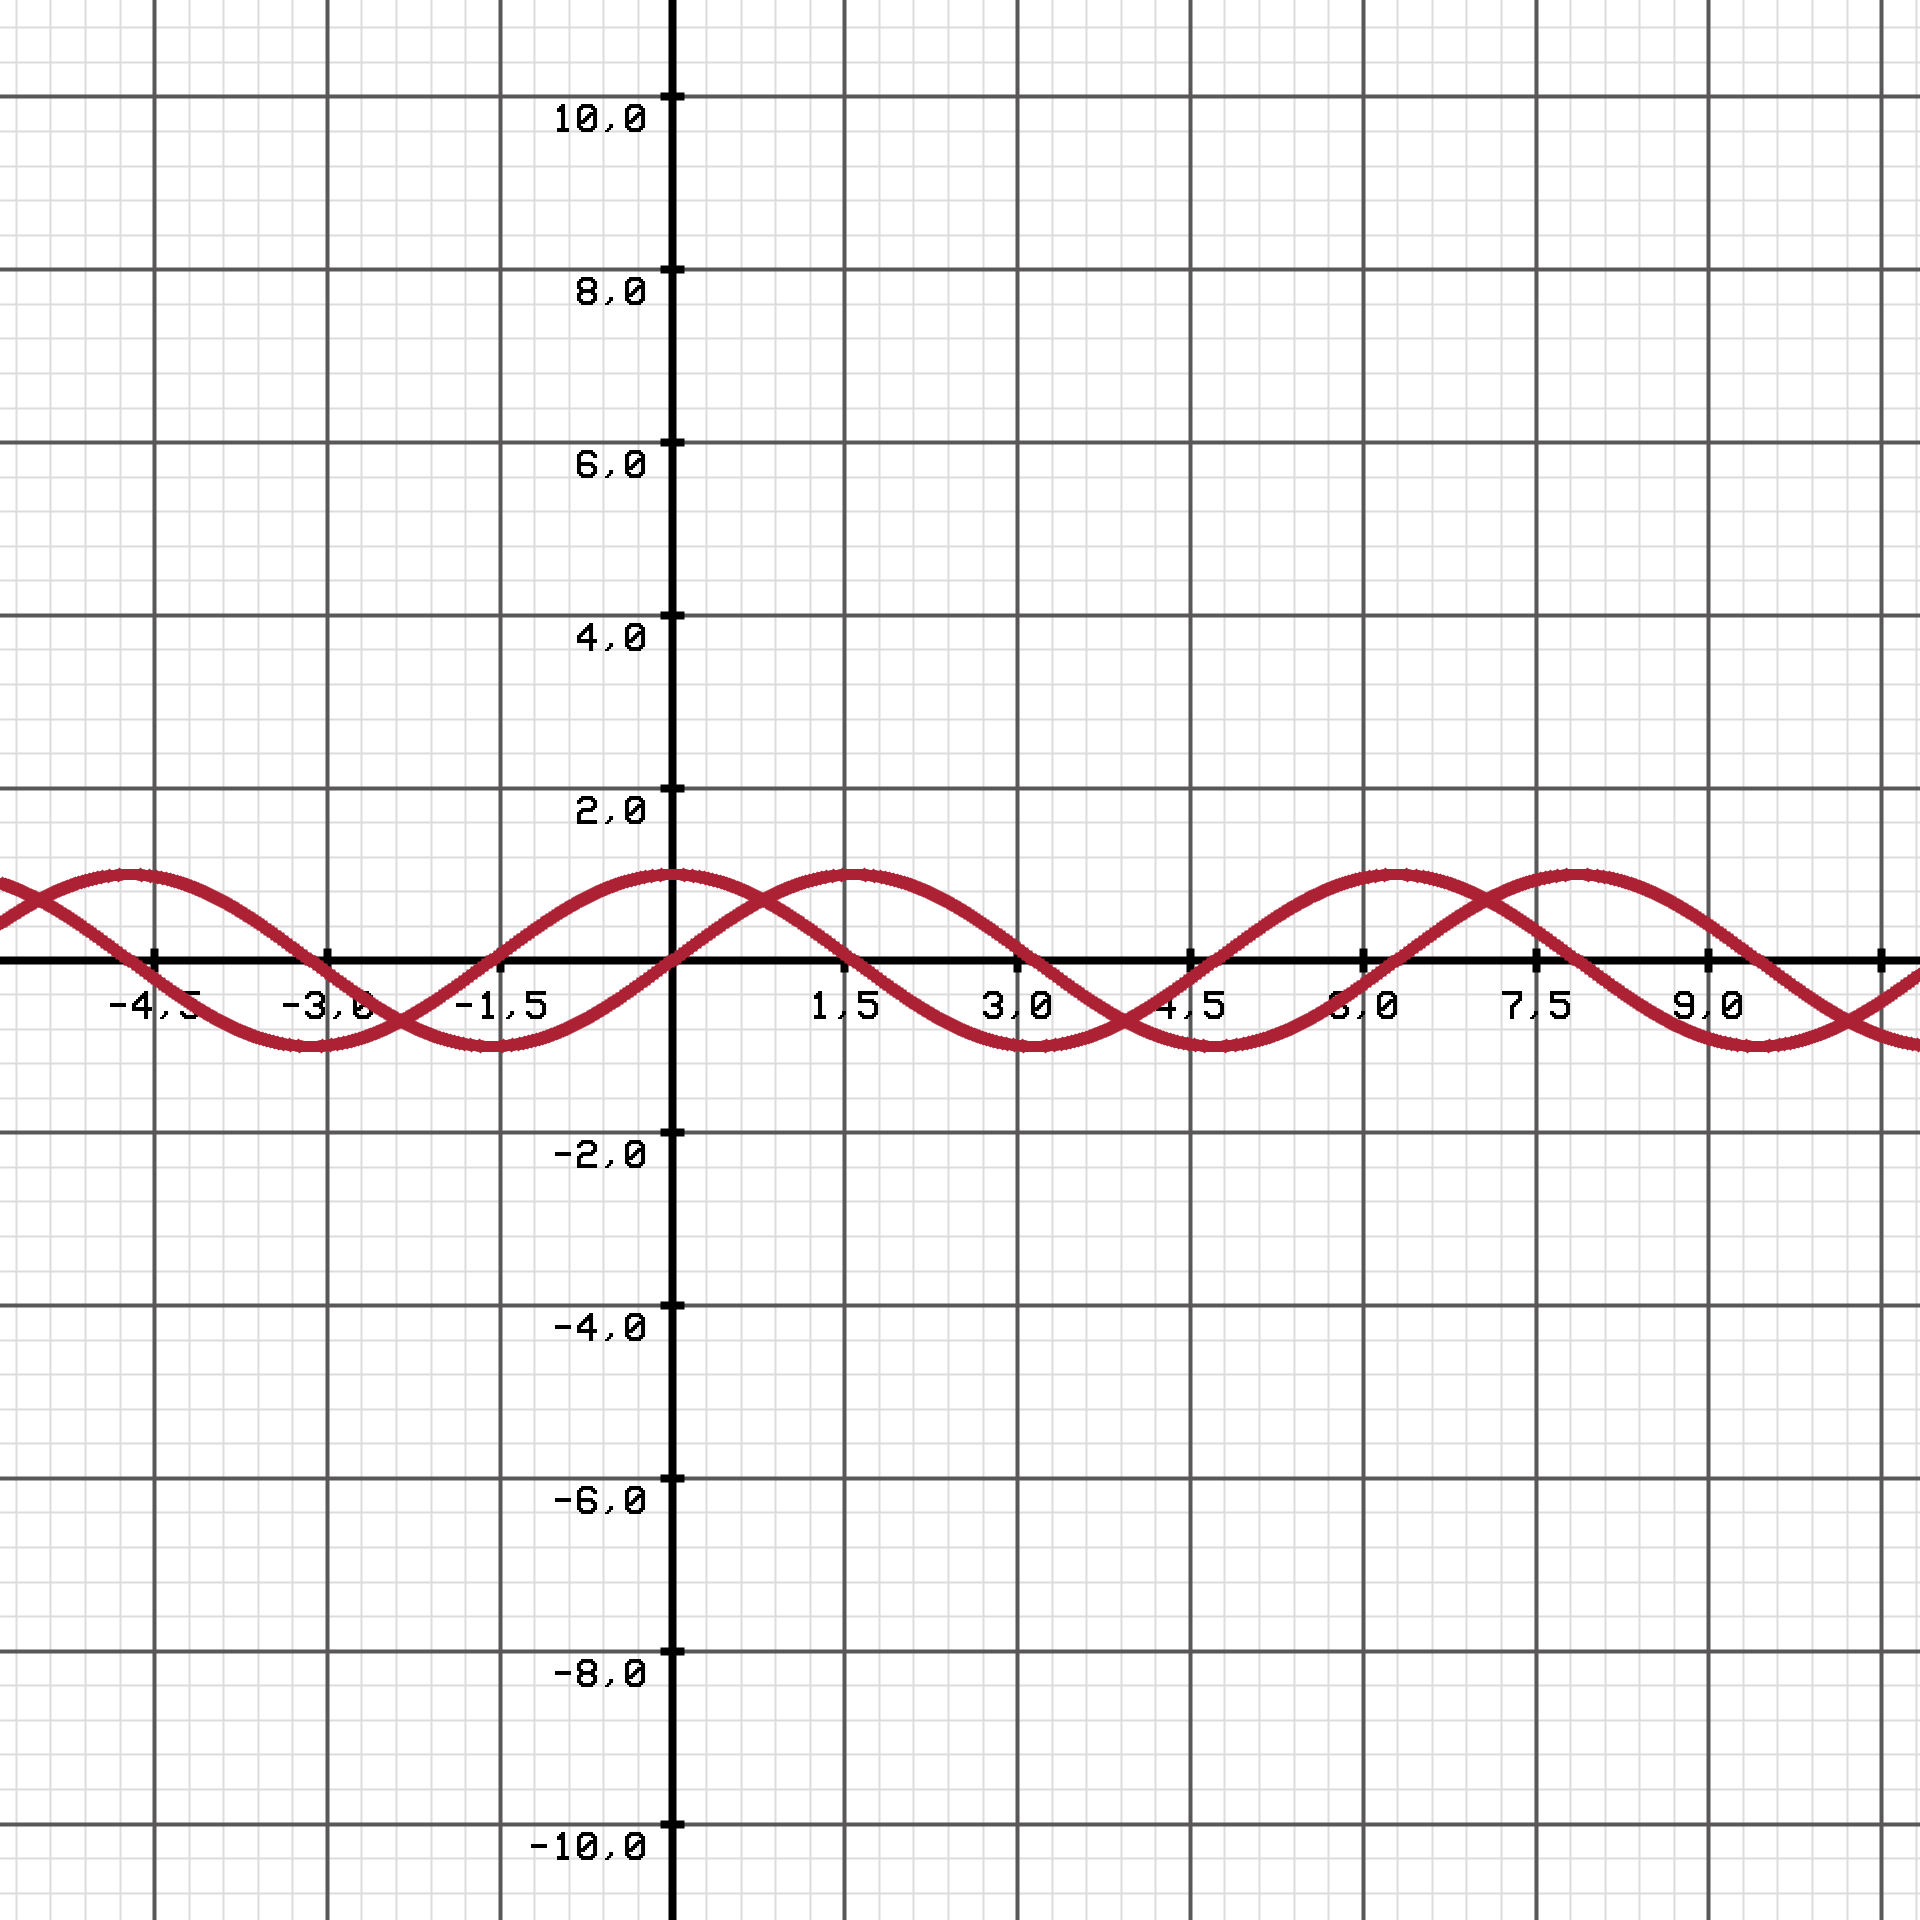
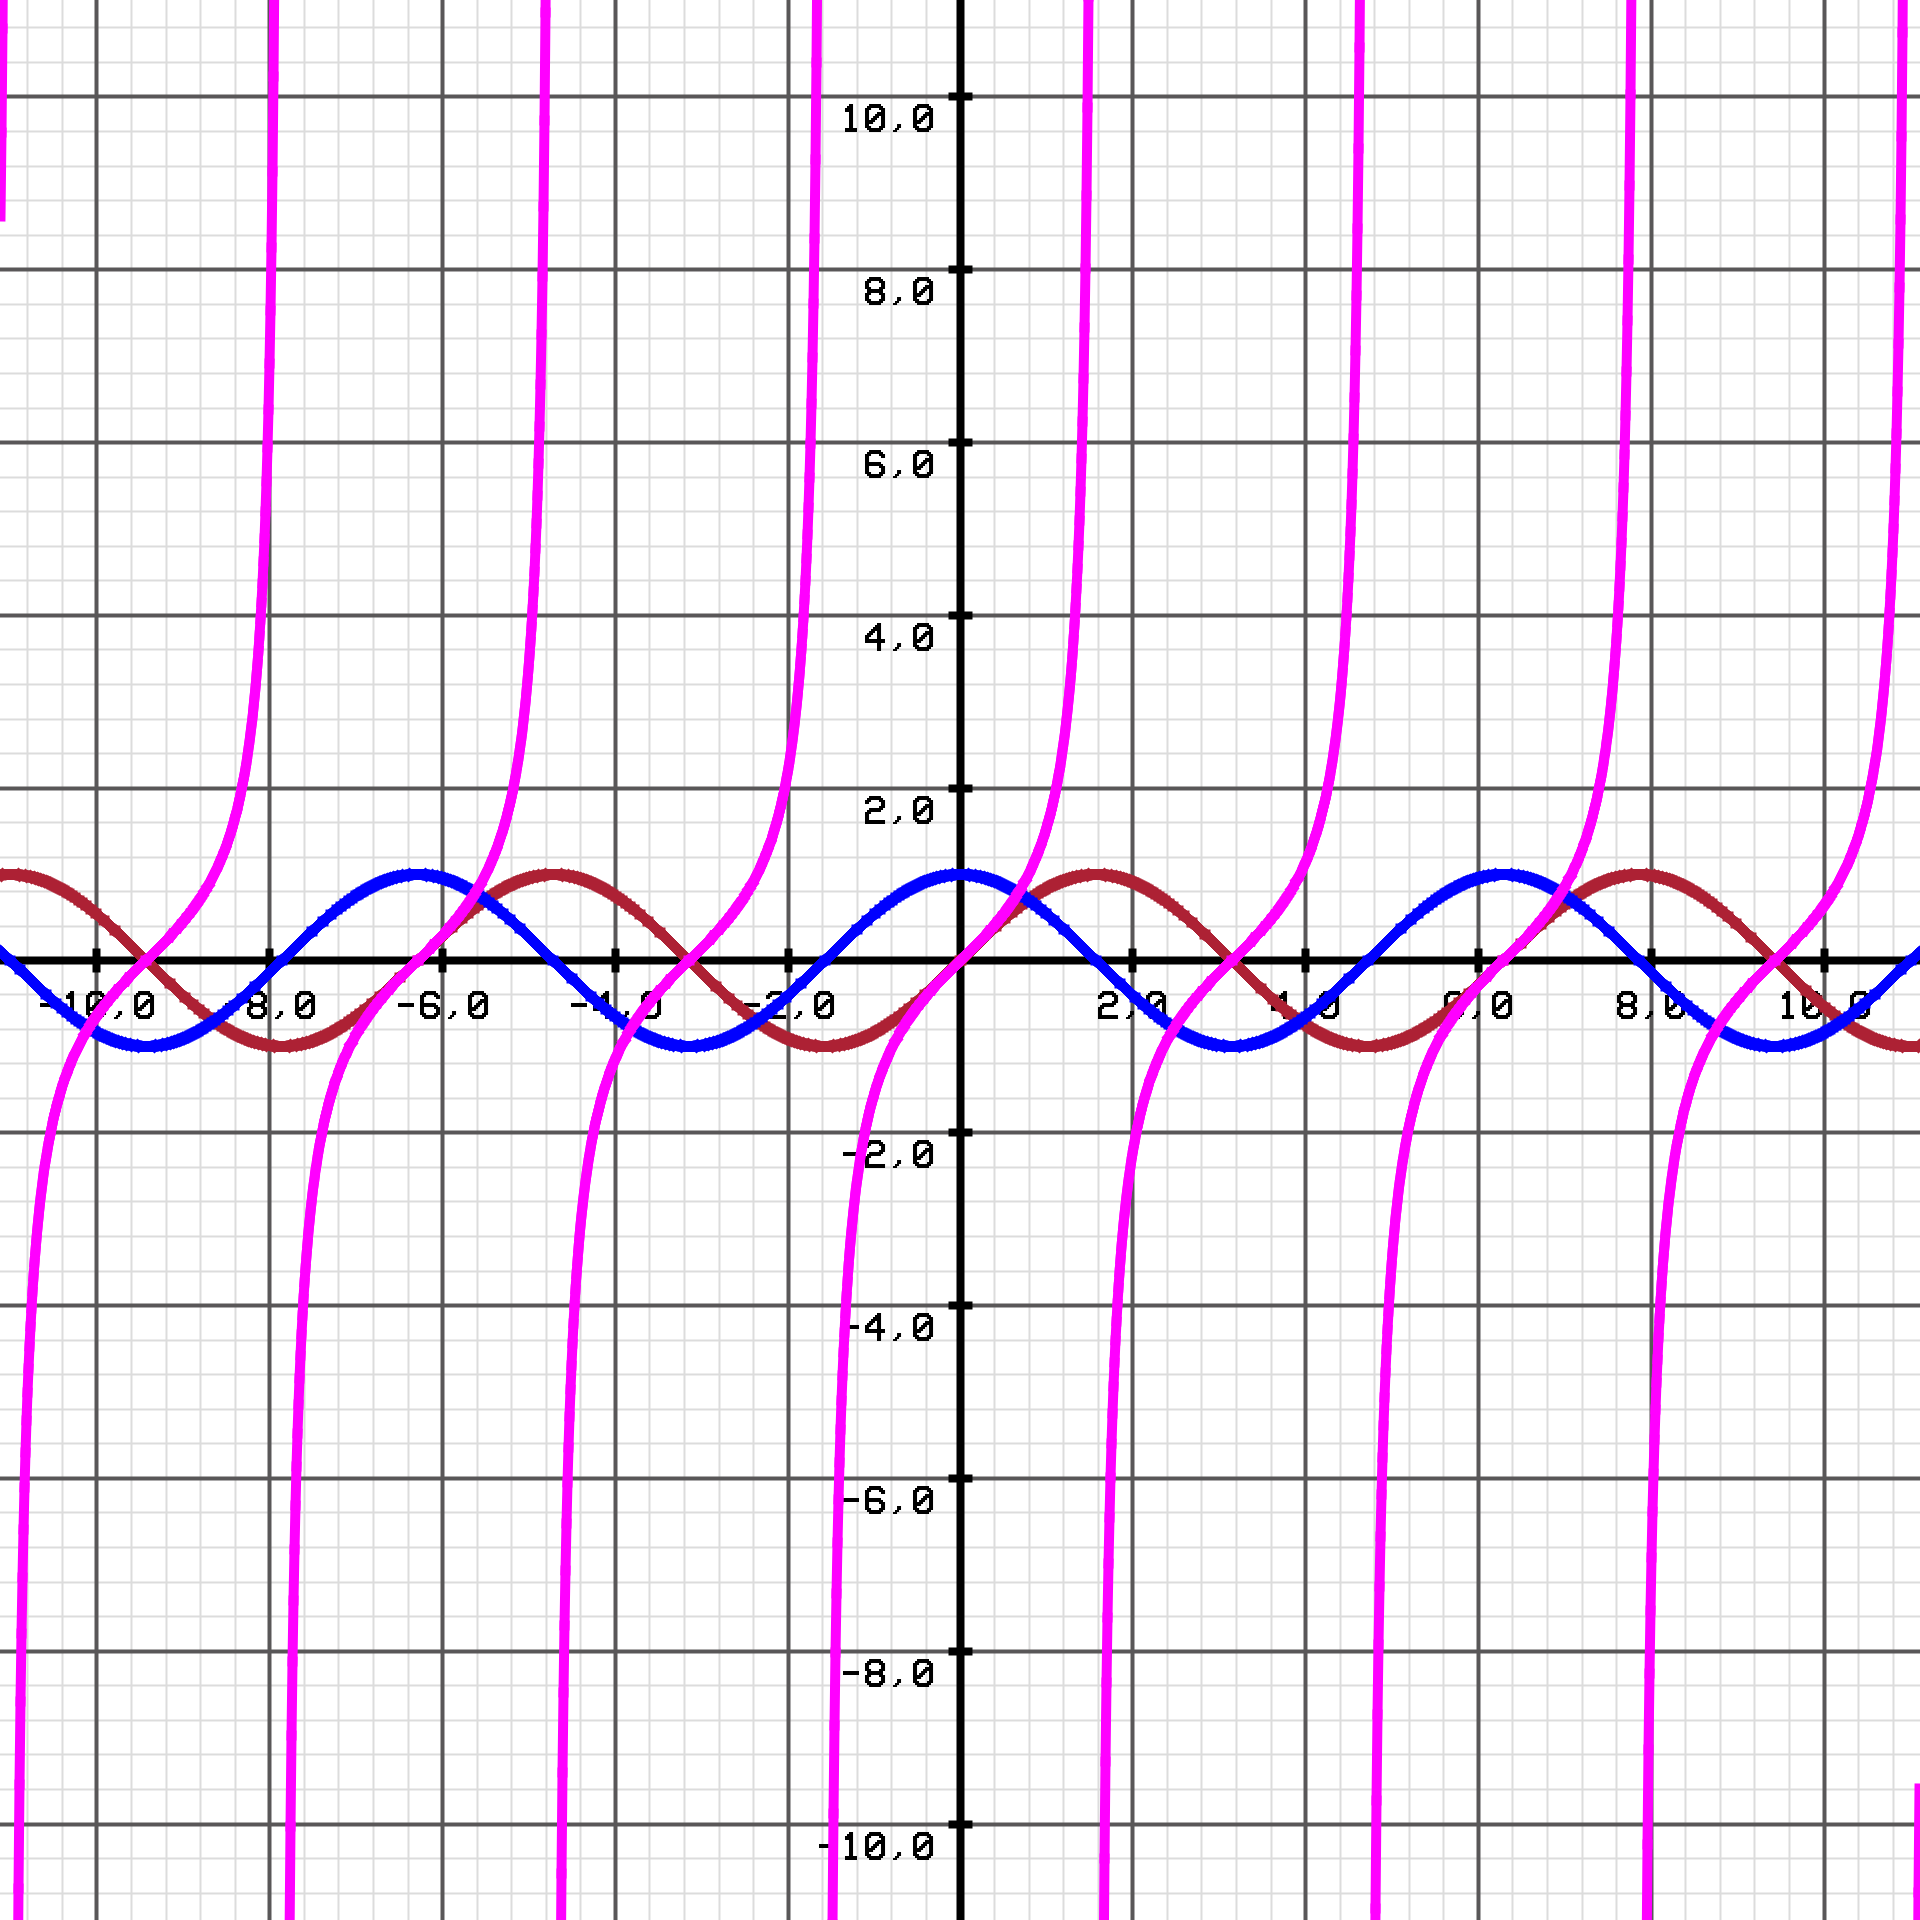
Suporte a escolha de cor para as funcoes

Changed region(s): [[0.0, 0.0, 1.0, 1.0]]

diff --git a/src/Function.java b/src/Function.java
@@ -1,3 +1,19 @@
-public interface Function {
-	public double function(double x);
+public class Function {
+
+	private IFunction function;
+	
+	public Function(IFunction function) {
+		this.function = function;
+	}
+
+	public void setFunction(IFunction function) {
+		this.function = function;
+	}
+	public IFunction getFunction() {
+		return function;
+	}
+	
+	public double function(double x) {
+		return function.function(x);
+	}
 }

diff --git a/src/Graph.java b/src/Graph.java
@@ -89,10 +89,20 @@ public class Graph {
         return g2d;
     }
     
+    // Chama a funcao de desenhar grafico
+    public void addFunc(IFunction func) {
+    	drawFunction(func,  new Color(173, 33, 52));
+    }
+    
+    // Chama a funcao de desenhar grafico com uma cor definida pelo usuario
+    public void addFunc(IFunction func, Color cor) {
+    	drawFunction(func, cor);
+    }
+    
     // Desenha a funcao em cima do grafico base gerado
-    public void addFunc(Function func) {
+    public void drawFunction(IFunction func, Color cor) {
     	g2d.setStroke(new BasicStroke(10.0f));
-        g2d.setColor(new Color(173, 33, 52));
+        g2d.setColor(cor);
     	
     	// Calcula a margem e espaco util para desenho
     	int margemX = (int) (width * 0.05);

diff --git a/src/Main.java b/src/Main.java
@@ -1,18 +1,24 @@
+import java.awt.Color;
+
 public class Main {
 
 	public static void main(String[] args) {
 		
-		ConcreteFunction func = new ConcreteFunction((x) -> (Calculus.sin(x)));
+		Function func = new Function((x) -> (Calculus.sin(x)));
 		int width = 1920;
         int height = 1920;
         
-        Graph gg = new Graph(width, height, -5, 10, -10, 10);
+        Graph gg = new Graph(width, height, -10, 10, -10, 10);
         
         gg.addFunc(func.getFunction());
         
-        func.setFunction((x) -> Calculus.cos(x));
+        func.setFunction((x) -> (Calculus.cos(x)));
         
-        gg.addFunc(func.getFunction());
+        gg.addFunc(func.getFunction(), Color.BLUE);
+        
+        func.setFunction((x) -> (Calculus.tan(x)));
+        
+        gg.addFunc(func.getFunction(), Color.magenta);
         
         gg.generateGraphPng();
         

diff --git a/src/IFunction.java b/src/IFunction.java
@@ -1,0 +1,3 @@
+public interface IFunction {
+	public double function(double x);
+}